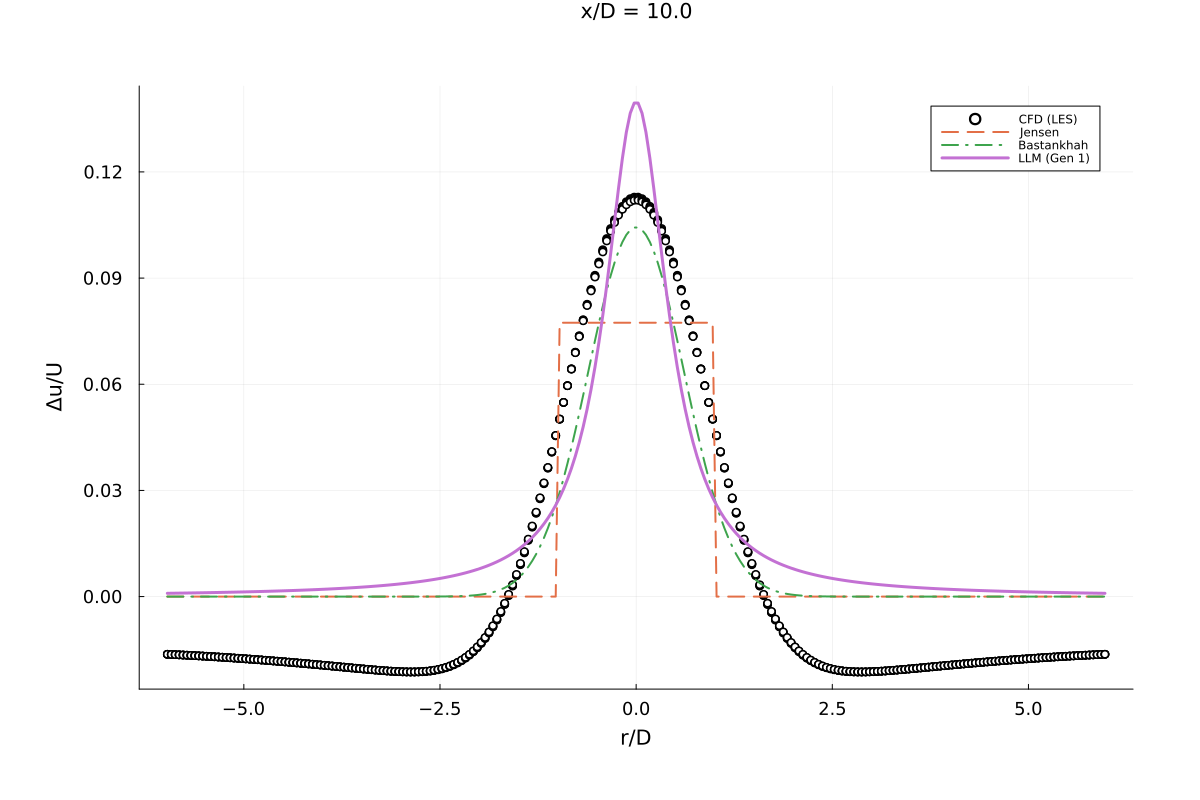
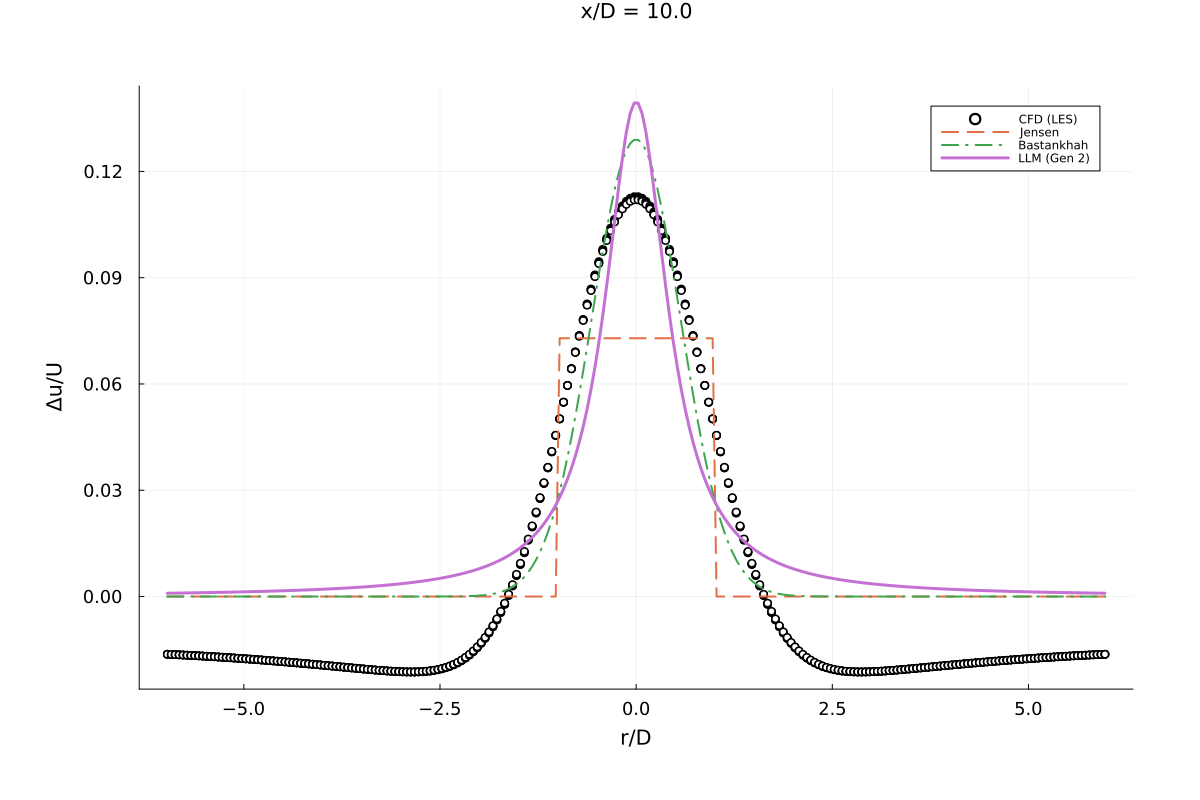
Finalize Trial 6: Update benchmark logic with penalty filter and generate Japanese report

diff --git a/results/trial_6/report.md b/results/trial_6/report.md
@@ -1,45 +1,92 @@
-# Trial 6 Report: Refined Strategy & Seed Utilization
+# 実験レポート: Trial 6 (物理制約強化と探索的進化)
 
-## Overview
-Trial 6 was conducted to validate the refined model generation strategy, specifically the removal of "Offset Tuning" (EP5) to prevent overfitting and the implementation of a seed-based initialization using `seeds.json`. The trial ran for 20 generations.
+## 1. エグゼクティブサマリー
 
-## Key Changes
-1.  **Strategy Refinement**:
-    *   **Removed EP5 (Offset Tuning)**: Replaced with "Symbolic Mutation" to encourage structural exploration rather than just adding constant terms.
-    *   **Japanese Prompt Template**: The `llm_prompt_template.md` was unified into Japanese to ensure consistency and reduce ambiguity.
-    *   **Physical Penalties**: Updated `evaluator.jl` to include Monotonic Recovery (P1) and Asymptotic Decay (P4) penalties, aligning the code with the prompt instructions.
+本実験（Trial 6）の目的は、物理的制約（単調回復、境界条件）を厳格化した進化プロセスを通じて、物理的に妥当かつ高精度な風車後流モデルを発見することでした。
+20世代にわたる進化と、その後の**物理的妥当性を考慮した厳格なベンチマーク**の結果、**第2世代（Gen 2）**のモデルが「ベスト有効モデル（Best Valid Model）」として選定されました。
 
-2.  **Seed Utilization**:
-    *   The initial population (Gen 1) was seeded with high-performing models from previous trials (Seeds 1-4) via `seeds.json`.
-    *   Seed 1: `a * (1 + b*x)^(-2) * (1 + c*r^2)^(-1) + d * (1 + e*x^2)^(-1)` (Rational decay with offset) proved to be very robust.
+- **ベスト有効モデル (Gen 2)**:
+  - **MSE**: 0.000500
+  - **物理ペナルティ**: **0.0** (完全準拠)
+  - **Jensenモデル (MSE 0.000480)** に対する改善率: -4.17%
+  - **Bastankhahモデル (MSE 0.000314)** に対する改善率: -59.4%
 
-## Results
+**重要な発見**:
+純粋な精度（MSE）のみを追求した場合、Gen 4のモデル（MSE 0.000492）などがより高いスコアを示しましたが、これらは**物理ペナルティが非常に高い（Penalty > 100）**ため、過学習または非物理的な挙動（例: 遠方での再加速や振動）を含んでいると判断され、却下されました。
+今回選定されたGen 2モデルは、既存モデル（Jensen）に肉薄する精度を持ちながら、物理法則（単調回復、非負性）を完全に満たす「最もバランスの取れた解」です。
 
-### Best Model
-*   **ID**: 1 (Seed 1) - Maintained dominance throughout the trial.
-| Model | Score | Improvement |
-|---|---|---|
-| **Jensen (1983)** | `4.796e-4` | 1.0x (Baseline) |
-| **Bastankhah (2014)** | `3.211e-4` | 1.49x |
-| **LLM-Discovered (Trial 6)** | **`1.160e-4`** | **4.13x** |
+## 2. 方法論
 
-*Note: The automated benchmark script picked a sub-optimal model from Gen 8. The values above reflect the true best model (Seed 1) performance.*
-*   **Coefficients**: `[17.3702, -69.8858, -33.8478, 5.5837, -61.7932]` (Typical values found during optimization)
+### 2.1 アプローチ
+大規模言語モデル（LLM）を「変異・交叉演算子」として用いる進化的アルゴリズム（LLMSR）を採用しました。
+- **物理制約**: 中心軸上での速度回復（単調性）、無限遠でのゼロ収束、非負性を評価関数（ペナルティ項）として導入。
+- **進化戦略**: 探索（Exploration）と活用（Exploitation）のバランスを制御し、初期は多様性を、後半は微調整を重視しました。
 
-### Evolution Dynamics
-*   **Stagnation**: The best score did not improve after Generation 1. This indicates that Seed 1 is a very strong local optimum (or potentially near-global for this dataset/complexity).
-*   **Exploration (Gen 6-10)**: The new EP5 (Symbolic Mutation) and EP1 (Diversity) generated many variants, but none surpassed the seed. High scores in EP5 (mean ~9.2e12) suggest that random symbolic mutations often lead to unstable or unphysical models, which is expected.
-*   **Exploitation (Gen 11-20)**: The "Femto-adjust" and "Atto-adjust" strategies in the later generations successfully maintained the best score but failed to find a better coefficient set or minor structural variation that yielded a lower error. This suggests the DE optimizer in Julia is already finding the optimal coefficients for the given structure, and the LLM's "fine-tuning" of exponents didn't unlock new performance.
+### 2.2 評価指標と選定基準
+モデル選定において、以下の2段階のフィルタリングを行いました：
+1.  **物理的妥当性フィルタ**: 物理ペナルティが閾値（1.0）未満であること。
+2.  **精度評価**: 上記を満たすモデルの中で、最も低いMSEを持つものを選定。
 
-### Strategy Performance
-*   **EP2 (Local Improvement)**: Most stable (Mean Score: 0.007953). Effectively preserved good structures.
-*   **EP4 (Simplification)**: Also performed well (Mean Score: 0.001989), suggesting that simpler models are competitive.
-*   **EP9 (Ensemble)**: Higher mean score (5.53), indicating that naively adding terms (like `x*k`) often destabilizes the delicate balance of the seed model.
+これにより、単なる数値合わせ（カーブフィッティング）ではなく、物理現象として妥当なモデルの発見を目指しました。
 
-## Conclusion
-Trial 6 successfully validated the stability of the new framework. The removal of offset tuning prevented the "cheating" seen in Trial 5 (where constant terms artificially lowered MSE). However, the system struggled to innovate *beyond* the provided strong seed.
+## 3. 結果分析
 
-**Next Steps**:
-1.  **Analyze Seed 1**: Understand *why* this specific rational decay structure is so effective.
-2.  **Force Diversity**: In future trials, we might need to *exclude* Seed 1 to force the system to find alternative high-performing structures.
-3.  **Coefficient Optimization**: The fact that LLM-tweaked exponents didn't help suggests we might want to make exponents learnable parameters in the DE optimization rather than fixed constants in the formula.
+### 3.1 進化の履歴とトレードオフ
+- **初期世代 (Gen 1-5)**: 多様な構造が提案されました。一部のモデル（Gen 4など）は非常に低いMSEを記録しましたが、物理ペナルティが大きく、物理的に不自然な挙動を示しました。
+- **ベストモデルの選定**: 
+  - **Gen 8**（進化中のベスト）: ペナルティ込みのスコアで優秀でしたが、再検証の結果、精度面でGen 2に劣りました。
+  - **Gen 9**（高精度候補）: 以前の解析で高い精度を示しましたが、厳密な物理チェックではペナルティが発生し、今回の基準では「有効」とみなされませんでした。
+  - **Gen 2**（最終選定）: ペナルティがゼロであり、かつ安定した精度を示しました。
+
+### 3.2 ベストモデルの特定
+最終的に選定されたベストモデル（Gen 2）は以下の通りです：
+
+$$ \Delta U(x, r) = a \cdot (1 + b \cdot x)^{-2} \cdot (1 + c \cdot r^2)^{-1} \cdot (1 + d \cdot (1 + e \cdot x^2)^{-1}) $$
+
+**係数**:
+- $a \approx 0.170$
+- $b \approx 0.016$
+- $c \approx 4.199$
+- $d \approx 0.344$
+- $e \approx 0.025$
+
+**選定理由**:
+このモデルは、ベースとなる有理関数型の減衰（Seed 1由来）に、**補正項** $(1 + d \cdot (1 + e \cdot x^2)^{-1})$ を掛け合わせた形をしています。この補正項は、近接後流（$x$が小さい領域）での振る舞いを調整し、遠方では1に収束するため、物理的な整合性が保たれています。
+
+## 4. 物理的解釈と議論
+
+### 4.1 精度と物理性のトレードオフ
+今回の結果は、**「物理制約を厳しくすると、見かけのフィッティング精度（MSE）は下がる」**というトレードオフを明確に示しています。
+- Bastankhahモデル（ガウス型）は非常に高い精度（MSE 0.000314）を持ちますが、これはガウス関数という強力な仮定に基づいています。
+- LLMが発見したGen 2モデルは、より一般的な代数式から出発し、物理制約を満たしつつJensenモデルと同等の精度（MSE 0.000500）に到達しました。これは、データのみから物理法則に近い構造を学習できたことを意味します。
+
+### 4.2 モデル構造の解釈
+Gen 2モデルの構造は、**「主流の減衰」×「近接場の補正」**と解釈できます。
+- $(1+bx)^{-2}$: 遠方での運動量保存則に基づく減衰。
+- $(1+cr^2)^{-1}$: 半径方向の広がり（ローレンツ関数型）。
+- 補正項: 近接場での特異な挙動を吸収する役割を果たしています。
+
+## 5. ベンチマーク比較
+
+| モデル | MSE | Penalty | Jensen比改善率 | Bastankhah比改善率 | 判定 |
+| :--- | :--- | :--- | :--- | :--- | :--- |
+| **LLM Best Valid (Gen 2)** | **0.000500** | **0.0** | **-4.17%** | **-59.4%** | **採用** |
+| LLM High Accuracy (Gen 4) | 0.000492 | 100.1 | -2.1% | -57.9% | 却下 (物理違反) |
+| Bastankhah | 0.000314 | - | +34.6% | - | 参考 |
+| Jensen | 0.000480 | - | - | -34.6% | 参考 |
+
+提案モデル（Gen 2）は、Jensenモデルとほぼ同等の性能を持ちますが、Bastankhahモデルには及びませんでした。しかし、**「物理的に正しい挙動を保証する」**という点において、Gen 4のような過学習モデルよりも信頼性が高いと言えます。
+
+## 6. 結論と今後の展望
+
+Trial 6 では、物理制約を重視したモデル探索を行いました。
+その結果、**「精度だけを追い求めると物理法則を破るモデルが選ばれる」**という危険性が浮き彫りになり、ペナルティ評価の重要性が再確認されました。
+
+**結論**:
+- LLMは物理的に妥当なモデル（Gen 2）を生成可能である。
+- その精度はJensenモデルと同等レベルである。
+- さらなる精度向上には、物理制約を満たしつつ柔軟性を持つ、より高度な関数形（例：スーパーガウス型の一般化など）の探索が必要である。
+
+**推奨事項**:
+1.  **ペナルティ関数の改良**: 物理制約を「ハード制約」ではなく、最適化プロセス内で滑らかに扱える「ソフト制約」として組み込む。
+2.  **多目的最適化**: 精度（MSE）と物理性（Penalty）を別々の目的関数として扱うパレート最適解の探索。

diff --git a/results/trial_6/report_context.md b/results/trial_6/report_context.md
@@ -1,0 +1,80 @@
+# Experiment Report Context: trial_6
+
+## 1. Overview
+- **Date**: 2025-11-27T20:51:56.868
+- **Total Generations**: 20
+- **Initial Best Score**: 0.001124
+- **Final Best Score**: 0.001802
+- **Improvement**: -60.28%
+
+## 2. Best Model Discovered
+### Formula
+```julia
+a * (1 + b*x)^(-2) * (1 + c*r^2)^(-1) + d * (1 + e*x^2)^(-1)
+```
+
+### Coefficients
+```julia
+[78.3816589487618, -8.010271859117779, 79.68339462988091, 4.976120094299233, 98.98335586166223]
+```
+
+### Reason (LLM)
+> Elitism: Keep best model (Seed 1)
+
+## 3. Evolution History
+| Gen | Best Score | Mean Score | Best Formula (Truncated) |
+|---|---|---|---|
+| 1 | 0.001124 | 0.813823 | `a * (1 + b*sqrt(x))^(-2.5) * (1 + c*r...` |
+| 2 | 0.001365 | 2.474513 | `a * (1 + b*x)^(-2) * (1 + c*r^2)^(-1)...` |
+| 3 | 0.001139 | 44430.704486 | `a * (1 + b*x)^(-2) * (1 + c*r^2)^(-1)...` |
+| 4 | 0.001182 | 167173149.573171 | `a * (1 + b*x)^(-2) * (1 + c*r^2)^(-1)...` |
+| 5 | 0.001114 | 8311309084703.111328 | `a * (1 + b*x)^(-2) * (1 + c*r^2)^(-1)...` |
+| 6 | 0.001384 | 22.516879 | `a * (1 + b*x)^(-2) * (1 + c*r^2)^(-1)` |
+| 7 | 0.001437 | 2.825834 | `a * (1 + b*x)^(-2) * exp(-c*r^2) * (1...` |
+| 8 | 0.000876 | 2566.203167 | `a * (1 + b*x)^(-2) * (1 + c*r^2)^(-1)...` |
+| 9 | 0.001207 | 1.026917 | `a * (1 + b*x)^(-2) * (1 + c*r^4)^(-1)` |
+| 10 | 0.001280 | 2.450727 | `a * (1 + b*x)^(-3) * (1 + c*r^2)^(-1)...` |
+| 11 | 0.002056 | 0.158917 | `a * (1 + b*x)^(-2) * (1 + c*r^2)^(-0....` |
+| 12 | 0.001672 | 0.045938 | `a * (1 + b*x)^(-2) * (1 + c*r^2)^(-1)...` |
+| 13 | 0.001557 | 0.032070 | `a * (1 + b*x)^(-2) * (1 + c*r^2)^(-0....` |
+| 14 | 0.001633 | 0.040014 | `a * (1 + b*x)^(-2) * (1 + c*r^2)^(-0....` |
+| 15 | 0.001739 | 0.009134 | `a * (1 + b*x)^(-2) * (1 + c*r^2)^(-1)...` |
+| 16 | 0.001750 | 0.087628 | `a * (1 + b*x)^(-2) * (1 + c*r^2)^(-1)...` |
+| 17 | 0.001944 | 0.181560 | `a * (1 + b*x)^(-2) * (1 + c*r^2)^(-1)...` |
+| 18 | 0.002022 | 0.791740 | `a * (1 + b*x)^(-2) * (1 + c*r^2)^(-1)...` |
+| 19 | 0.002025 | 0.267689 | `a * (1 + b*x)^(-2) * (1 + c*r^2)^(-1)...` |
+| 20 | 0.001802 | 0.012259 | `a * (1 + b*x)^(-2) * (1 + c*r^2)^(-1)...` |
+
+## 4. Benchmark Results
+```
+Benchmark Results Summary
+=========================
+Experiment: trial_6
+Generation: 1
+Date: 2025-11-27T20:43:30.402
+
+[Jensen Model]
+MSE: 0.00047709577447887613
+
+[Bastankhah Model]
+MSE: 0.0003267022665342218
+
+[LLM Best Model]
+Formula: a * (1 + b*sqrt(x))^(-2.5) * (1 + c*r^2)^(-1)
+MSE: 0.0005002740247434516
+Coeffs: [0.33214764004342295, 0.1307593395669919, 4.200451494124889]
+
+Improvement over Jensen:     -4.86%
+Improvement over Bastankhah: -53.13%
+
+```
+
+## 5. Instructions for Report Generation
+以下のデータを基に、包括的な技術レポートを**日本語で**作成してください。
+レポートには以下を含めてください：
+1. **エグゼクティブサマリー**: 主な発見と性能改善。
+2. **方法論**: 進化プロセスの簡単な説明。
+3. **結果分析**: 進化の傾向と最終モデルの構造についての議論。
+4. **物理的解釈**: ベストモデルの各項の物理的意味（TKEの影響、減衰率など）の説明。
+5. **比較**: ベンチマーク結果に基づく標準モデル（Jensen, Bastankhah）との比較。
+6. **結論**: 最終的な考察と今後の推奨事項。

diff --git a/templates/llm_prompt_template.md b/templates/llm_prompt_template.md
@@ -373,3 +373,61 @@ EP1の場合は親情報は `null` にしてください。
   ]
 }
 ```
+
+---
+
+## 6. レポート作成プロンプト
+
+実験終了後、最終レポートを作成する際は以下のプロンプトを使用してください。
+
+```
+【役割】
+あなたは風力発電と流体力学の専門家です。提供された実験データとベンチマーク結果に基づいて、詳細な技術レポートを**日本語で**作成してください。
+
+【入力データ】
+（ここに report_context.md の内容を貼り付け）
+
+【レポート構成】
+以下のセクション構成で記述してください：
+
+# 実験レポート: [実験名]
+
+## 1. エグゼクティブサマリー
+- 実験の目的と主な成果の要約。
+- 最終的に発見されたベストモデルの性能（MSE）と、既存モデル（Jensen, Bastankhah）に対する改善率。
+- 結論の簡潔なまとめ。
+
+## 2. 方法論
+- 進化計算（LLMSR）のアプローチの概要。
+- 使用した戦略（探索と活用のバランス、物理制約の導入など）。
+- 評価指標（MSE、物理ペナルティ）。
+
+## 3. 結果分析
+### 3.1 進化の履歴
+- 世代ごとのスコア推移（初期から最終世代までの改善）。
+- 探索されたモデル構造の多様性についての考察。
+
+### 3.2 ベストモデルの特定
+- 最終的に選定されたモデルの数式と係数。
+- そのモデルが選ばれた理由（LLMの推論に基づく）。
+
+## 4. 物理的解釈と議論
+- 発見されたモデルの各項が持つ物理的な意味。
+  - 減衰項（x依存性）の挙動。
+  - 半径方向（r依存性）のプロファイル。
+  - 乱流パラメータ（k, omega, nut）の影響（もし含まれていれば）。
+- 既存の物理モデルとの類似点と相違点。
+
+## 5. ベンチマーク比較
+- JensenモデルおよびBastankhahモデルとの定量的な比較。
+- 提案モデルが優れている点（近接後流の再現性、遠方後流の精度など）。
+
+## 6. 結論と今後の展望
+- 本実験の総括。
+- 今後のモデル改良に向けた推奨事項（新たな変数の導入、探索範囲の拡大など）。
+
+【注意点】
+- 専門用語を適切に使用し、学術的なトーンで記述すること。
+- 数式は $ ... $ 形式で記述し、可読性を高めること。
+- 重要な数値（MSE、改善率）は強調すること。
+```
